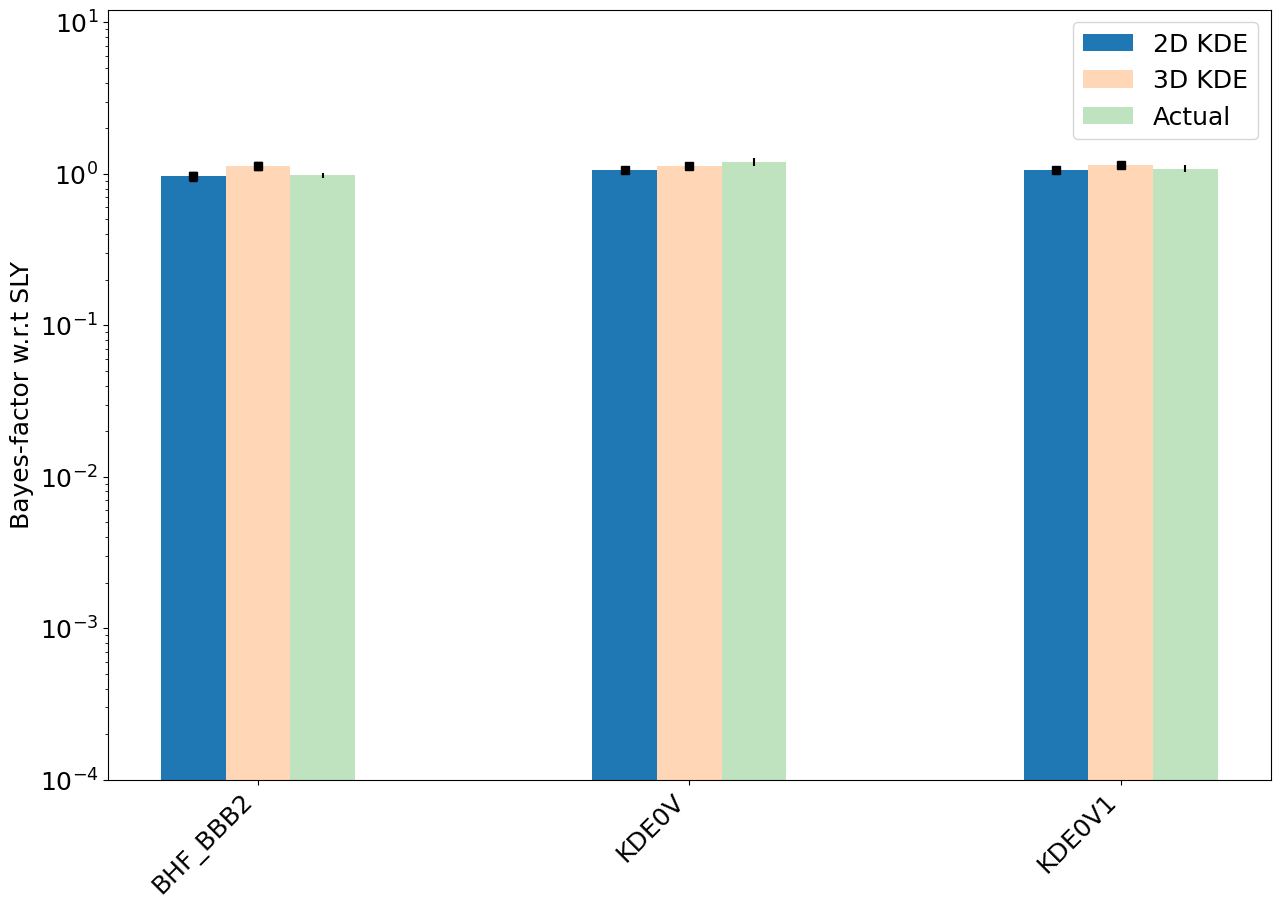
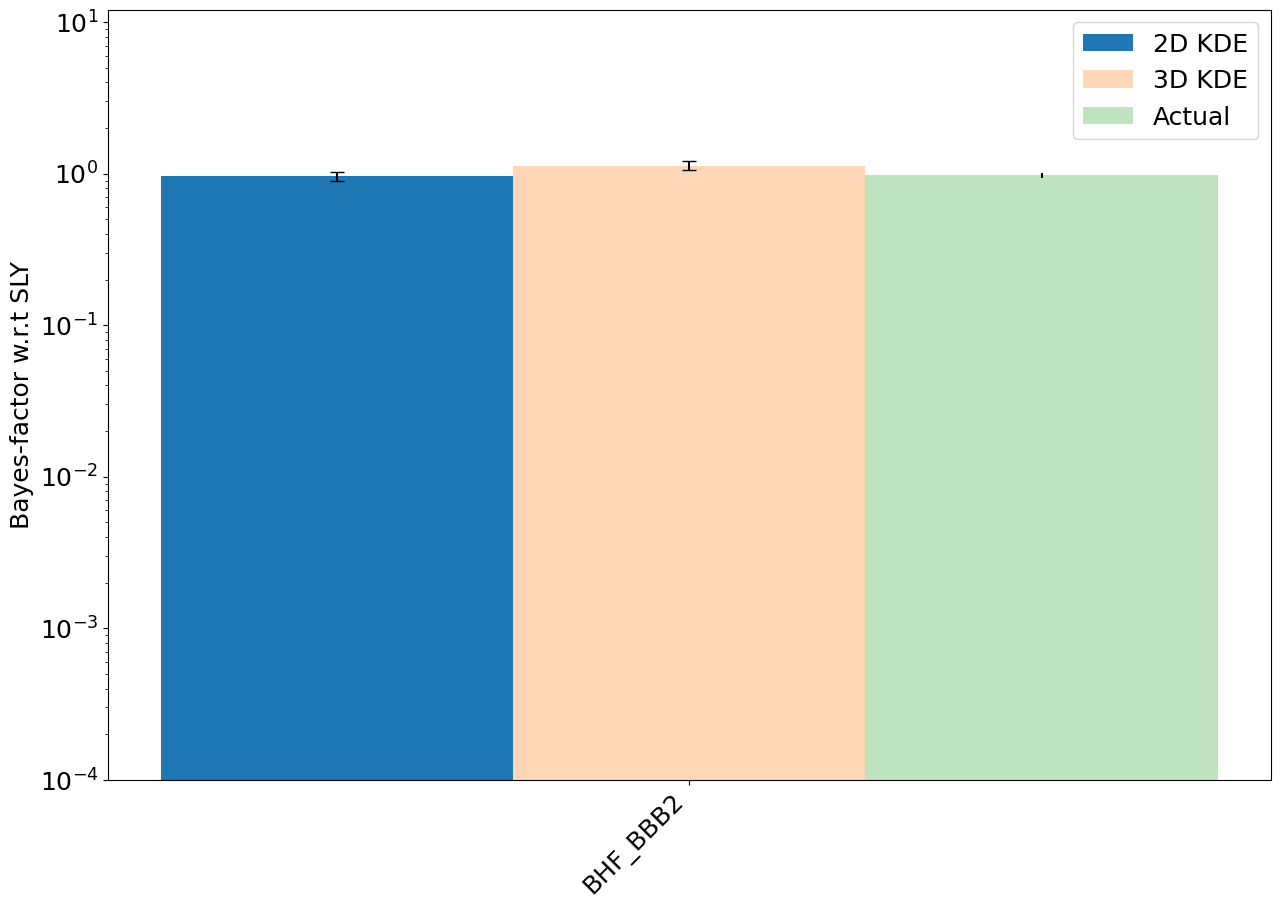
Testing refined plots of 2D 3D BFs. 4th time.

diff --git a/year3/PhenomTaylorCompare/GW170817BFs_GWXtreme2024Paper.py b/year3/PhenomTaylorCompare/GW170817BFs_GWXtreme2024Paper.py
@@ -22,7 +22,7 @@ def singleEventBFs():
     colors = ["#1f77b4", "#ffd7b6", "#bfe2bf"]
     methods = [modsel_uLTs, modsel_uLs]
     #eosList = ["BHF_BBB2","KDE0V","KDE0V1","SKOP","H4","HQC18","SLY2","SLY230A","SKMP","RS","SK255","SLY9","APR4_EPP","SKI2","SKI4","SKI6","SK272","SKI3","SKI5","MPA1","MS1_PP","MS1B_PP"]
-    eosList = ["BHF_BBB2","KDE0V","KDE0V1"]
+    eosList = ["BHF_BBB2"]
     
     with open("/home/michael/projects/eos/GWXtreme_Tasks/year2/bilby_runs/simulations/outdir/nested_sampling_results.json","r") as f:
         nestSamp = json.load(f)
@@ -57,7 +57,7 @@ def singleEventBFs():
         #plt.bar(x_axis+spacing[index],methods_BFs[index],.15,yerr=methods_uncerts[index],label=labels[index],color=colors[index])
         plt.bar(x_axis+spacing[index],methods_BFs[index],.15,label=labels[index],color=colors[index])
 
-        plt.errorbar(x_axis+spacing[index],methods_BFs[index],yerr=methods_uncerts[index],fmt="s",color="black",linewidth=1,capsize=3)
+        plt.errorbar(x_axis+spacing[index],methods_BFs[index],yerr=methods_uncerts[index],ls="none",ecolor="black",capsize=5)
     
     plt.bar(x_axis+spacing[2],nest_BFs,.15,yerr=nest_stds,label=labels[2],color=colors[2])
 
